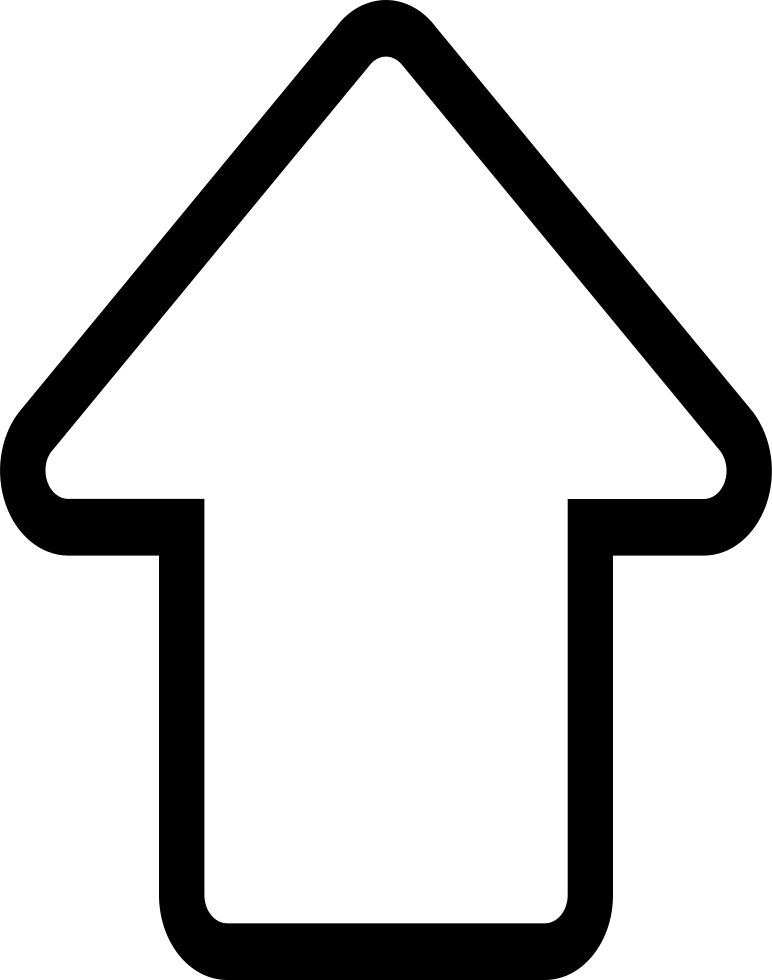
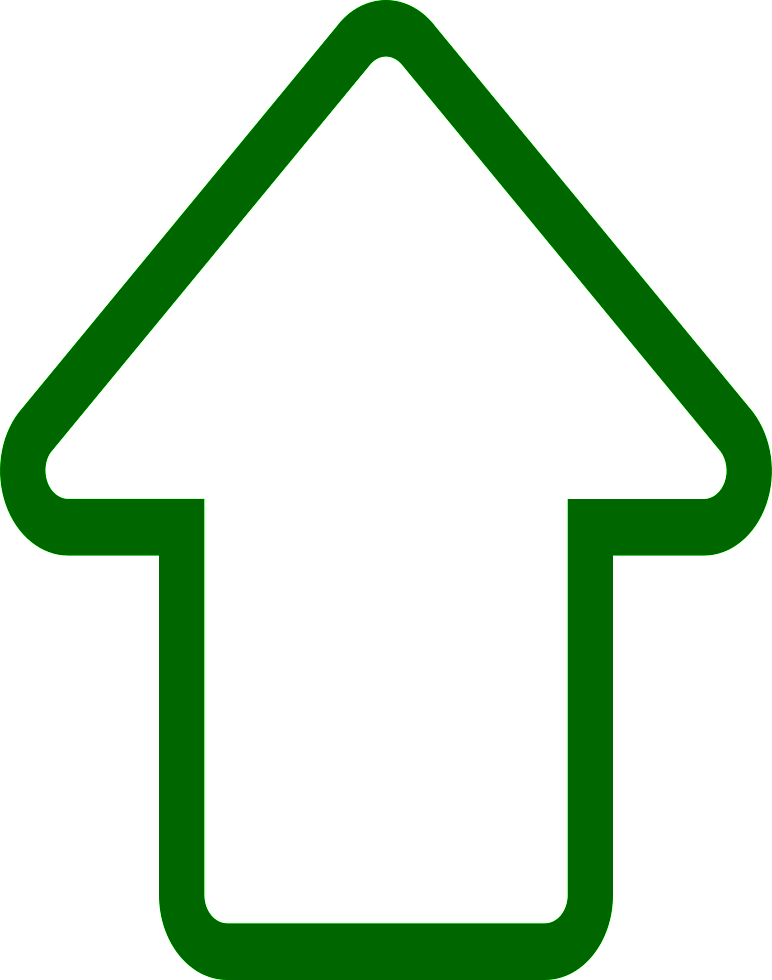
выаы

Changed region(s): [[0.0, 0.0, 1.0, 1.0]]

diff --git a/moloko/skin.js b/moloko/skin.js
@@ -1,7 +1,7 @@
 // Garden Gnome Software - Skin
 // Pano2VR 6.1.14/18105
 // Filename: filormaniya-10fin.ggsk
-// Generated 2026-10-05T04:31:20
+// Generated 2026-10-05T04:57:54
 
 function pano2vrSkin(player,base) {
 	var me=this;
